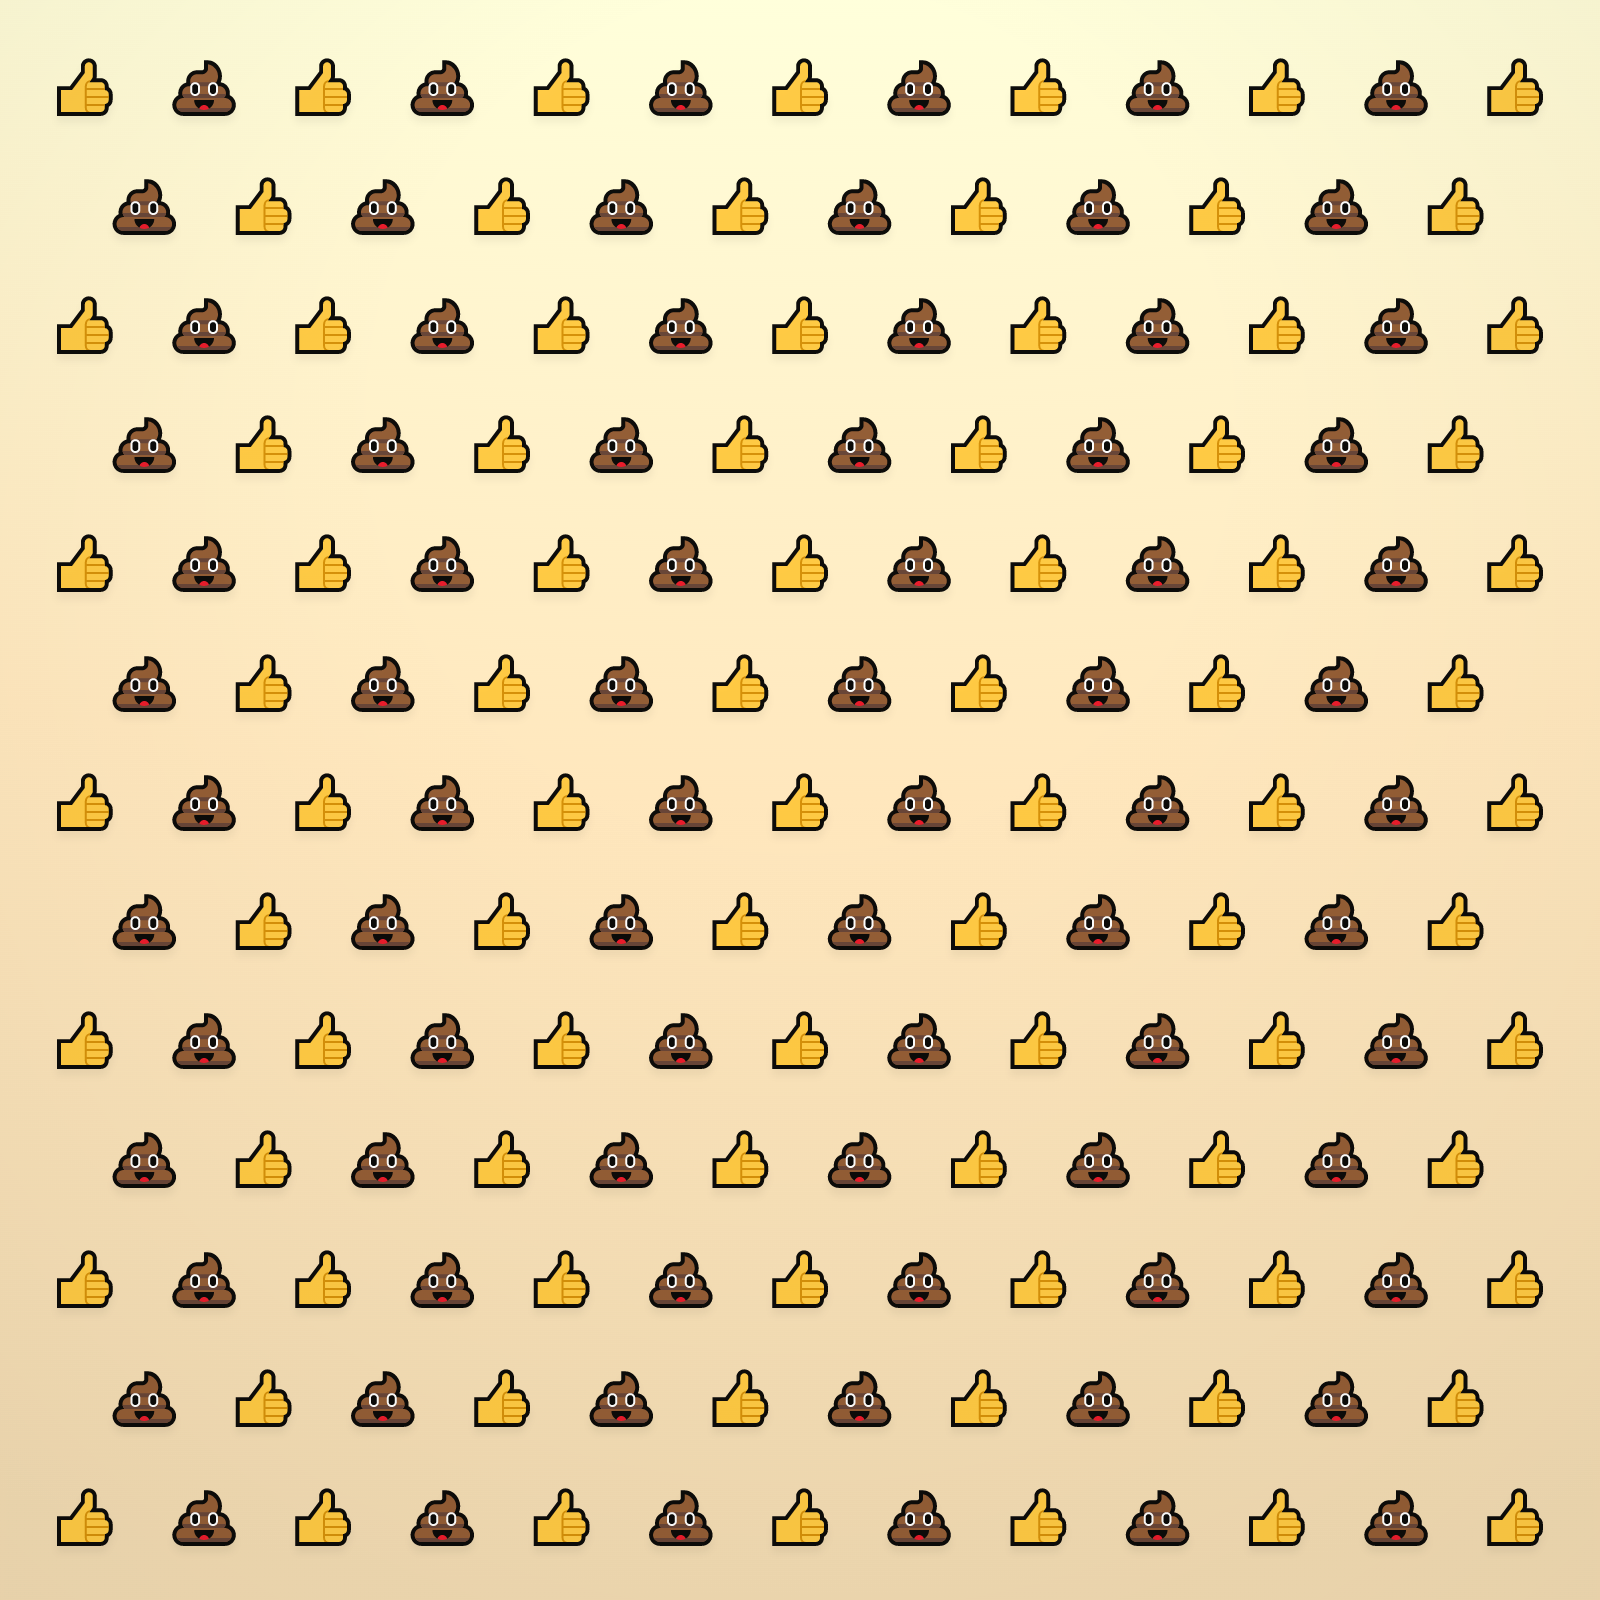
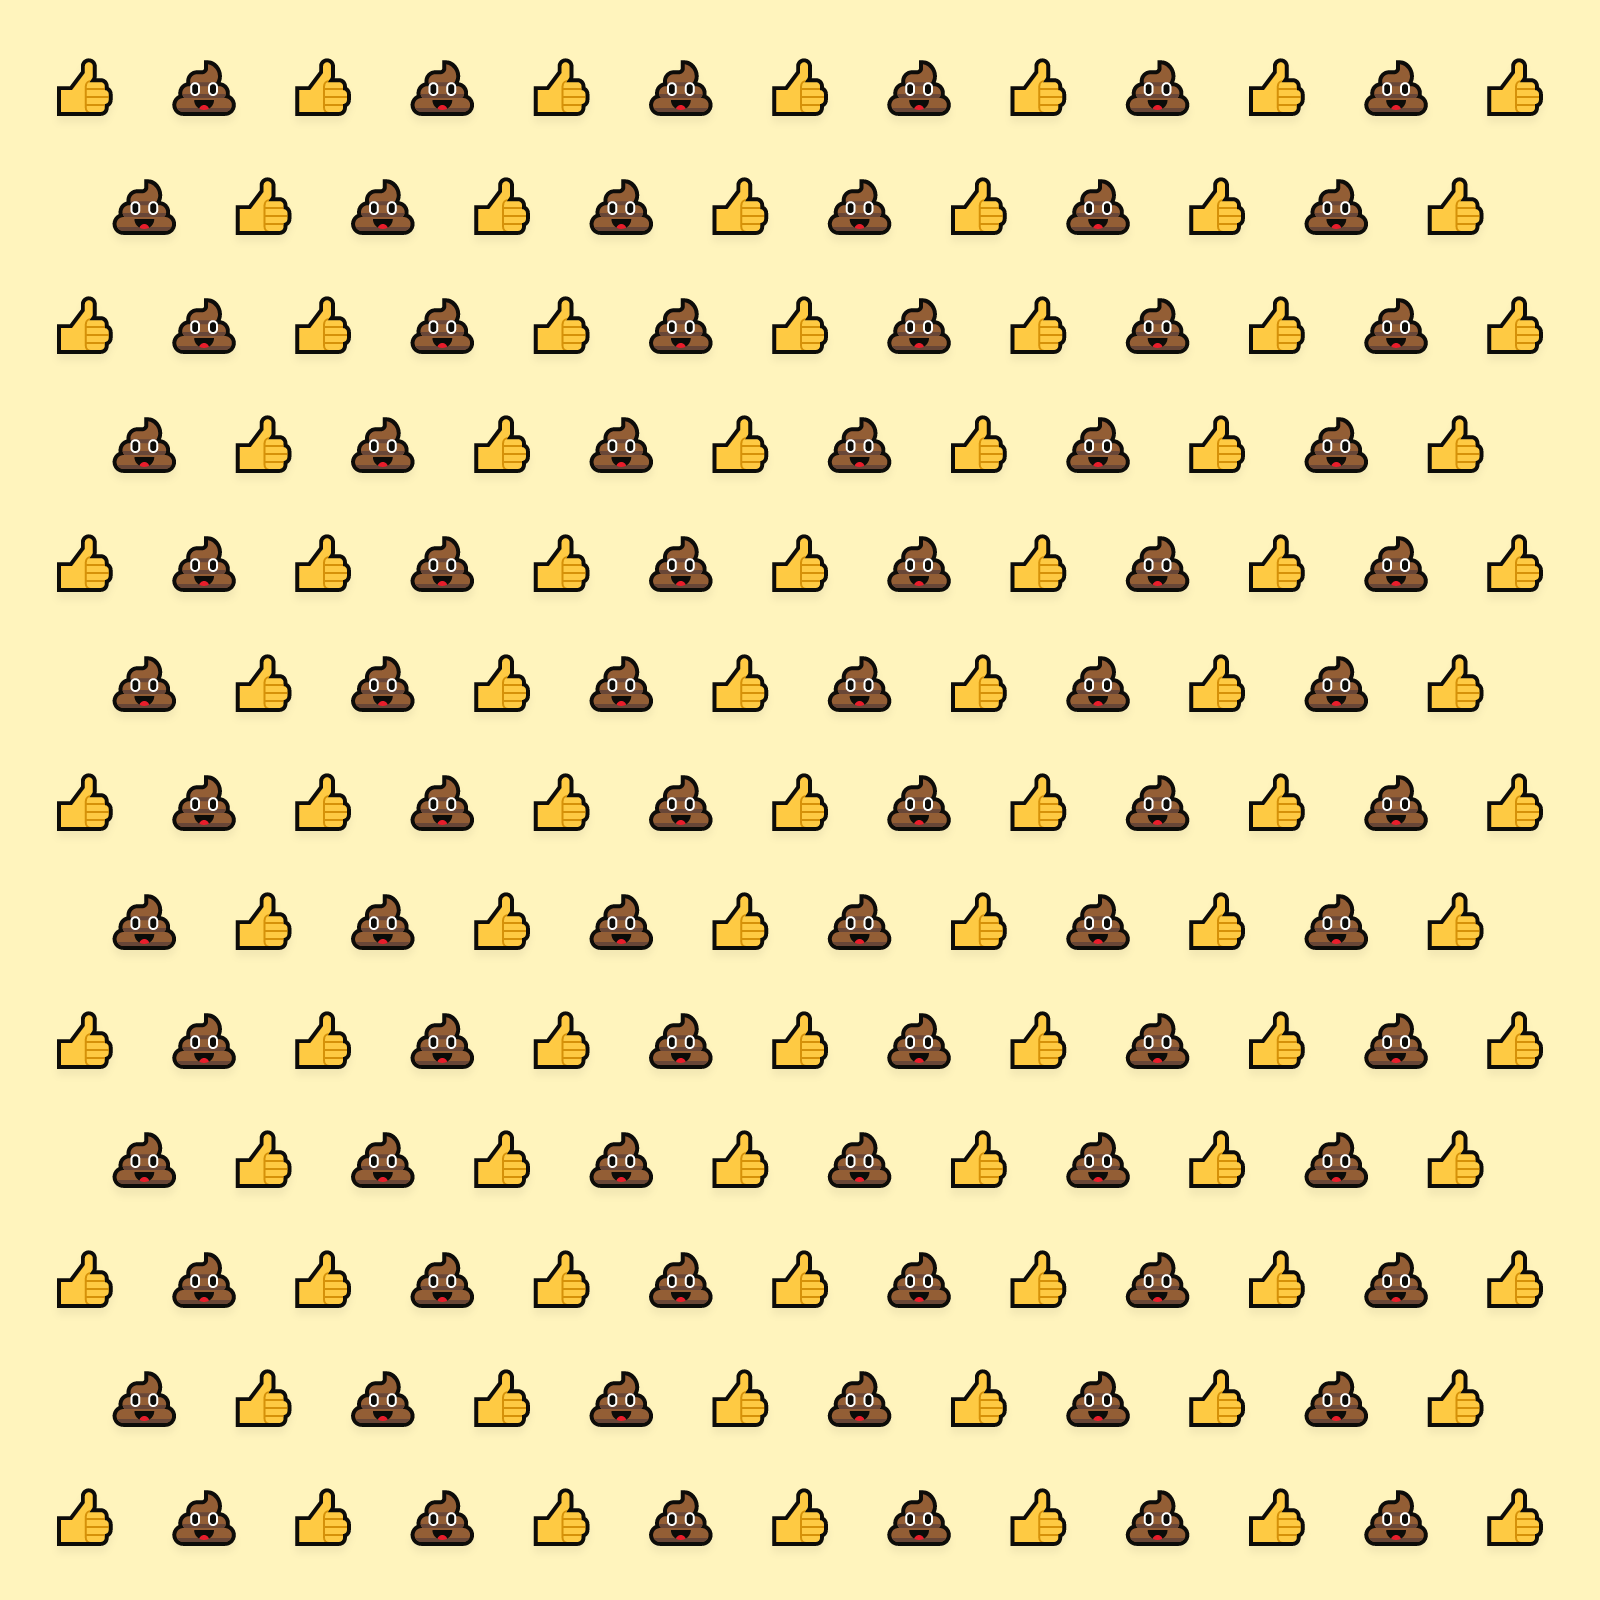
Current Status

Changed region(s): [[0.0, 0.625, 1.0, 1.0], [0.1875, 0.0, 0.8125, 0.0938]]

diff --git a/css/stylesheet.css b/css/stylesheet.css
@@ -1,32 +1,24 @@
-#tech-slideshow {
-    height: 200px;
-    position: relative;
-    overflow: hidden;
-}
-#tech-slideshow > div {
-    height: 200px;
-    width: 2526px;
-    background: url(https://emoji-page.einfachtobi.com/img/emoji.png);
-    position: absolute;
-    top: 0;
-    left: 0;
-    height: 100%;
-    
-    -moz-transition:  opacity 0.5s ease-out; 
-       -o-transition: opacity 0.5s ease-out; 
-  -webkit-transition: opacity 0.5s ease-out; 
-      -ms-transition: opacity 0.5s ease-out; 
 
-    -webkit-animation: moveSlideshow 60s linear infinite;
-    -moz-animation:    moveSlideshow 60s linear infinite;
-    
+/*
+  specify the scroll x (or y) with the width (or height) of the images
+  In this case, the image dimension is :
+  width: 1920px;
+  height: 808px;
+*/
+
+@keyframes bgScroll {
+  0% {
+    background-position : 0px 0px
+  }
+  100% {
+    background-position : 0px -808px
+  }
 }
 
-@-webkit-keyframes moveSlideshow {
-    0% { left: 0; }
-    100% { left: -1684px; }
-}
-@-moz-keyframes moveSlideshow {
-    0% { left: 0; }
-    100% { left: -1684px; }
+.scrollingBG {
+  display:block;
+  width:100vw;
+  height:100vh;
+  background-image:url("https://emoji-page.einfachtobi.com/img/emoji.png");
+  animation: bgScroll 20s linear infinite;
 }

diff --git a/index.html b/index.html
@@ -10,8 +10,8 @@
 	
 </head>
 <body>
-<div id="tech-slideshow">
-    <div id="tech-slideshow-1"></div>
+<div class="container">
+  <div class='scrollingBG'></div>
 </div>
 </body>
 </html>
